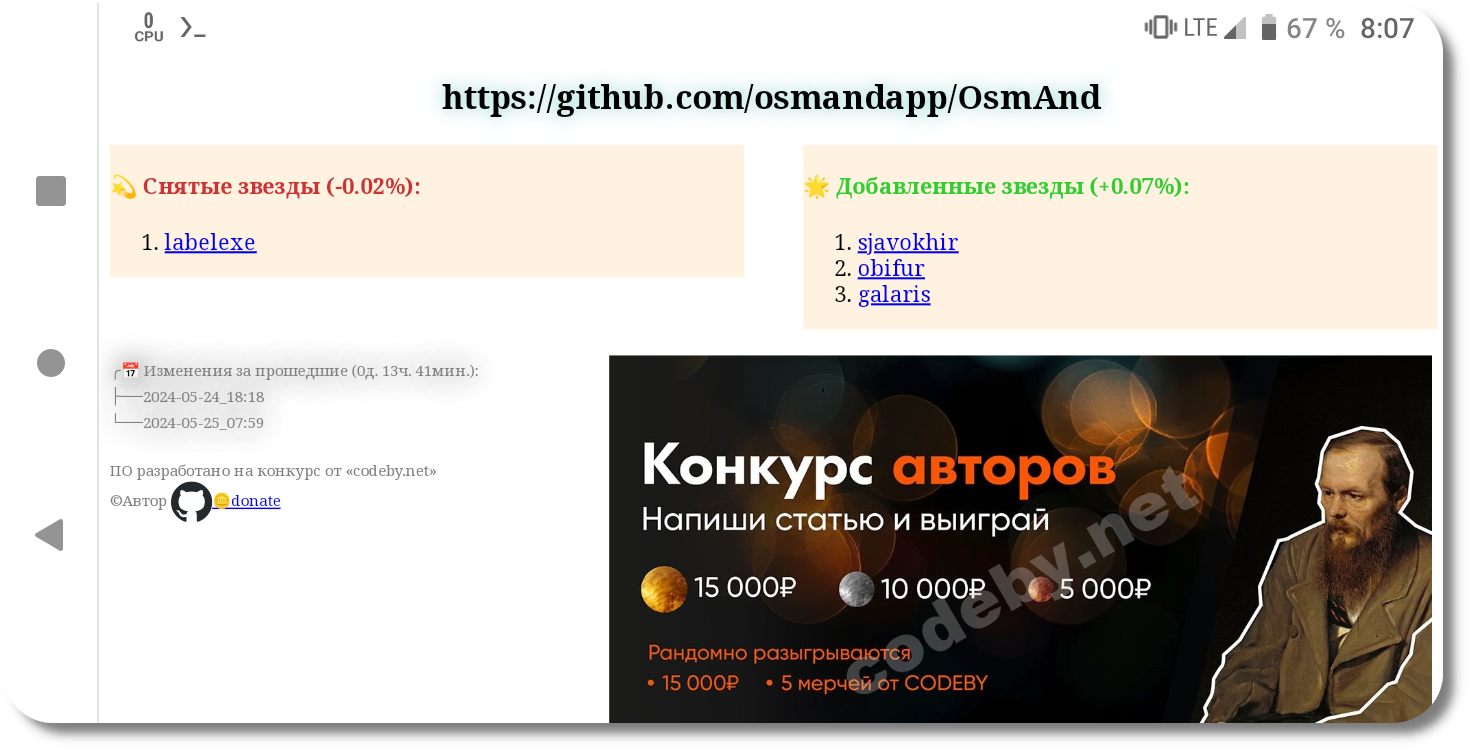
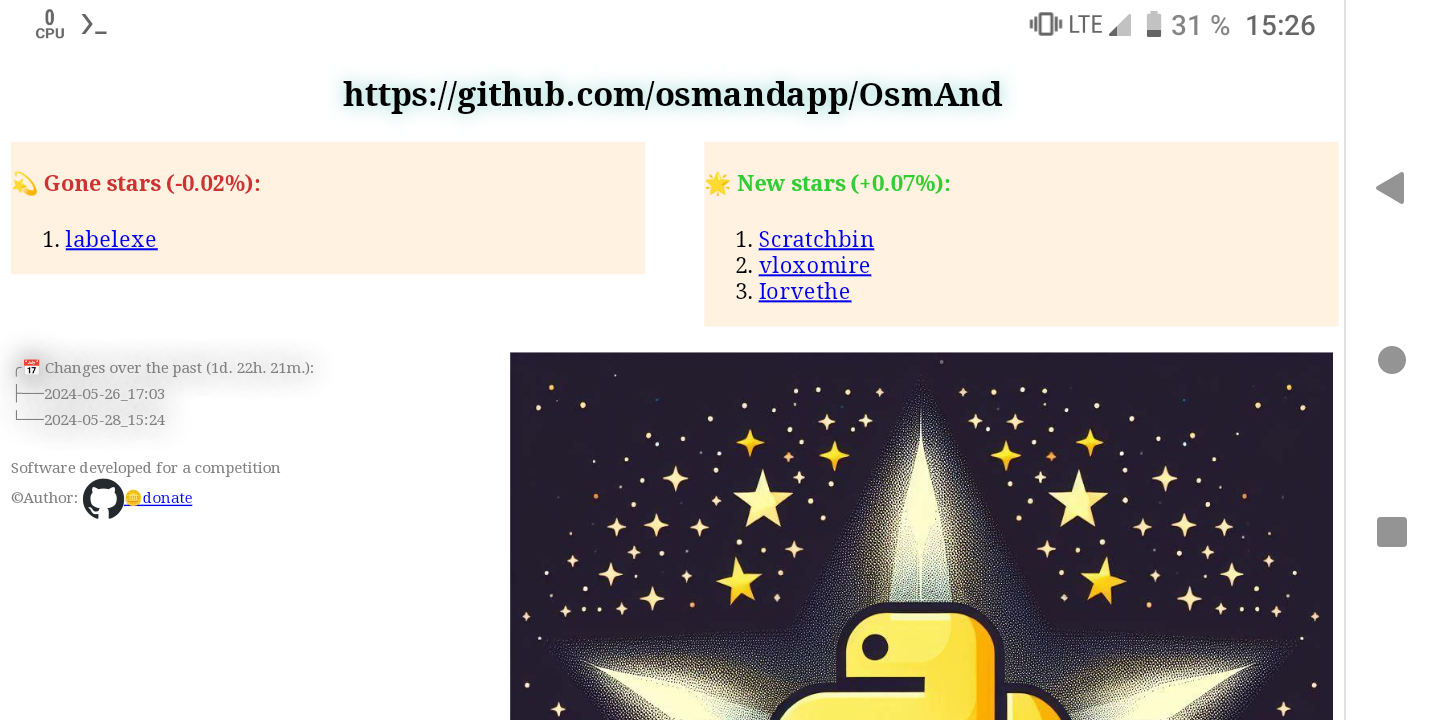
https://github.com/snooppr/shotstars/issues/1
"shotstars" translated from Russian into English

diff --git a/shot_stars.py b/shot_stars.py
@@ -25,10 +25,10 @@ console.print("""[yellow]
 / ___|| |__   ___ | |_  / ___|| |_ __ _ _ __ ___ 
 \___ \| '_ \ / _ \| __| \___ \| __/ _` | '__/ __|
  ___) | | | | (_) | |_   ___) | || (_| | |  \__ \\
-|____/|_| |_|\___/ \__| |____/ \__\__,_|_|  |___/[/yellow]  v0.1, автор: https://github.com/snooppr
+|____/|_| |_|\___/ \__| |____/ \__\__,_|_|  |___/[/yellow]  v0.1, author: https://github.com/snooppr
 """)
 
-url_repo = input("Укажите url репозитория (Github): ")
+url_repo = input("Specify the repository url (Github): ")
 repo = url_repo.rsplit(sep='/', maxsplit=1)[-1]
 repo_api = '/'.join(url_repo.rsplit(sep='/', maxsplit=2)[-2:])
 
@@ -52,7 +52,7 @@ def win_exit():
 def dif_time():
     """Диапазон прошедшего времени: от последнего сканирования к текущему сканированию."""
     delta = datetime.datetime.today() - datetime.datetime.fromtimestamp(date_file_new)
-    return f"{delta.days}д. {(datetime.datetime.utcfromtimestamp(0) + delta).strftime('%Hч. %Mмин.')}"
+    return f"{delta.days}d. {(datetime.datetime.utcfromtimestamp(0) + delta).strftime('%Hh. %Mm.')}"
 
 
 def parsing(diff=False):
@@ -71,7 +71,7 @@ def parsing(diff=False):
         req = my_session.get(f'https://api.github.com/repos/{repo_api}', headers=head, timeout=6)
         r = req.json()
     except Exception:
-        console.print('[bold red]Ошибка сети![/bold red]')
+        console.print('[bold red]Network error![/bold red]')
         win_exit()
         sys.exit()
 
@@ -81,15 +81,15 @@ def parsing(diff=False):
         stars = int(r.get("stargazers_count"))
         pages = (stars // 100) + 1
     except Exception:
-        console.print("\n[bold red]Внимание! Вероятно, превышен лимит API, блокировка будет снята предположительно:",
+        console.print("\n[bold red]Attention! The API limit has probably been exceeded, the block will presumably be lifted:",
                       time.strftime('%Y-%m-%d_%H:%M', time.localtime(int(req.headers.get('X-RateLimit-Reset')) + 60)))
-        console.print(Panel.fit("Ограничения: ~лимит 30 запросов или 6000 звезд/час", title="Github API"))
+        console.print(Panel.fit("Limitations: ~limit 30 requests or 6000 stars/hour", title="Github API"))
         win_exit()
         sys.exit()
 
 # Вывод на печать звезд и описание проекта (если присутствует).
-    title_repo = "Описание репозитория отсутствует" if r.get('description') is None else r.get('description')
-    console.print(f"[green]\n{title_repo}\n[bold green]Github-рейтинг:[/bold green] {stars} звезд\n")
+    title_repo = "No repository description available" if r.get('description') is None else r.get('description')
+    console.print(f"[green]\n{title_repo}\n[bold green]Github-rating::[/bold green] {stars} stars\n")
 
 # Настройка визуализации прогресса.
     progress = Progress(TimeElapsedColumn(), SpinnerColumn(spinner_name='earth'),
@@ -111,7 +111,7 @@ def parsing(diff=False):
                 for num in r:
                     lst_new.append(num.get("login"))
             except Exception:
-                console.print('\n[bold red]Сбой!')
+                console.print('\n[bold red]Crash!!')
                 win_exit()
                 sys.exit()    
 
@@ -127,9 +127,9 @@ def parsing(diff=False):
         diff_lst_up = list(set(lst_new) - set(lst_old)) # прибавление звезд.
 
         if bool(diff_lst_dn) is False:
-            console.print("[bold black on white]убывание звезд не обнаружено")
+            console.print("[bold black on white]gone stars not detected")
         if bool(diff_lst_up) is False:
-            console.print("[bold black on white]ПРИБАВЛЕНИЕ звезд не обнаружено")
+            console.print("[bold black on white]ADDING stars not detected")
 
         if not any([bool(diff_lst_dn), bool(diff_lst_up)]):
             print('\nfinish', round(time.perf_counter() - time_start, 1), 'sec.') # печать времени исполнения скрипта.
@@ -140,13 +140,13 @@ def parsing(diff=False):
             per_stars_up = round(len(diff_lst_up) * 100 / stars, 2) # расчет % соотношения прибавления звезд к общему рейтингу. 
 
 # Настройка таблиц для вывода на печать в CLI.
-            table_dn = Table(title=f"\n[yellow]Снятые звезды (-{per_stars_dn}%)\nза последние: {dif_time()}[/yellow]",
+            table_dn = Table(title=f"\n[yellow]Gone stars (-{per_stars_dn}%)\nin the last: {dif_time()}[/yellow]",
                              title_justify="center", header_style='yellow', style="yellow")
             table_dn.row_styles = ["none", "dim"]
             table_dn.add_column("N", justify="left", style="yellow", no_wrap=True)
             table_dn.add_column("gone stars", justify="left", style="yellow", no_wrap=True)
 
-            table_up = Table(title=f"\n[cyan]Добавленные звезды (+{per_stars_up}%)\nза последние: {dif_time()}[/cyan]",
+            table_up = Table(title=f"\n[cyan]New stars (+{per_stars_up}%)\nin the last: {dif_time()}[/cyan]",
                              title_justify="center", header_style='cyan', style="cyan")
             table_up.row_styles = ["none", "dim"]
             table_up.add_column("N", justify="left", style="cyan", no_wrap=True)
@@ -154,7 +154,7 @@ def parsing(diff=False):
 
 # Сохранение/открытие HTML-отчета/печать CLI-таблиц с результатами, если такие имеются.
             with open(f"{path}/report.html", "w", encoding="utf-8") as file_html:
-                file_html.write(f"<!DOCTYPE html>\n<html lang='ru'>\n\n<head>\n<title>💫({repo}) HTML-отчет</title>\n" + \
+                file_html.write(f"<!DOCTYPE html>\n<html lang='en'>\n\n<head>\n<title>💫({repo}) HTML-reeport</title>\n" + \
                                 "<meta charset='utf-8'>\n<style>\n.textcols {white-space: nowrap}\n" + \
                                 ".textcols-item {white-space: normal; display: inline-block; width: 48%; " + \
                                 "vertical-align: top; background: #fff2e1}\n" + \
@@ -164,7 +164,7 @@ def parsing(diff=False):
                                 "transition: transform 0.15s}\n</style>\n</head>\n\n<body>\n" + \
                                 f"<h2 align='center' style='text-shadow: 0px 0px 13px #84d2ca' >{url_repo}</h2>\n" + \
                                 "<div class='textcols'>\n<div class='textcols-item'>\n" + \
-                                f"<h4 style='color:#CC3333'>💫 Снятые звезды (-{per_stars_dn}%):</h4>\n")
+                                f"<h4 style='color:#CC3333'>💫 Gone stars (-{per_stars_dn}%):</h4>\n")
 
                 if bool(diff_lst_dn):
                     file_html.write("<ol>")
@@ -175,7 +175,7 @@ def parsing(diff=False):
                     file_html.write("\n</ol>\n")
 
                 file_html.write(f"</div>\n\n<div class='textcols-item'>\n<h4 style='color:#32CD32'>" + \
-                                f"🌟 Добавленные звезды (+{per_stars_up}%):</h4>\n")
+                                f"🌟 New stars (+{per_stars_up}%):</h4>\n")
 
                 if bool(diff_lst_up):
                     file_html.write("<ol>")
@@ -185,18 +185,18 @@ def parsing(diff=False):
                                         f"href='https://github.com/{username}'>{username}</a></span></li>")
                     file_html.write("\n</ol>\n")
 
-                file_html.write("</div>\n</div>\n\n<br>\n<a " + \
-                                "href='https://codeby.net/threads/konkurs-avtorskix-statej-2024.83387/' target='blank'><img src=" + \
-                                "https://codeby.net/attachments/1200x675_konkurs_avtorov_montazhnaja_oblast_1_kopija_5-jpg.74724/ " + \
-                                "alt='Программа написана специально для конкурса Codeby (май 2024)' width='600' class='pic'></a>\n\n")
+                file_html.write("</div>\n</div>\n\n<br>\n<a href='" + \
+                                "https://github.com/snooppr/shotstars/tree/main' target='blank'><img src=" + \
+                                "https://raw.githubusercontent.com/snooppr/shotstars/main/images/stars.jpg " + \
+                                "alt='The program was written for an article competition' width='600' class='pic'></a>\n\n")
                 file_html.write("<span style='color:gray; text-shadow: 0px 0px 20px #333333'>" + \
-                                "<small><small>╭📅 Изменения за прошедшие " + \
+                                "<small><small>╭📅 Changes over the past " + \
                                 f"({dif_time()}): <br>├──{date}<br>└──{time.strftime('%Y-%m-%d_%H:%M', time.localtime())}" + \
                                 "</small></small></span>\n\n<p style='color: gray'><small><small>" + \
-                                "ПО разработано на конкурс от «codeby.net»<br>©Автор <a href='https://github.com/snooppr' " + \
+                                "Software developed for a competition<br>©Author: <a href='https://github.com/snooppr' " + \
                                 "target='blank'><img align='center' src='https://github.githubassets.com/favicons/favicon.svg' " + \
                                 "alt='' height='30' width='30'/>🪙</a><a href='https://yoomoney.ru/to/4100111364257544' " + \
-                                "target='blank' title='Прога оказалась полезной? Поддержи финансово разработчика.'>donate" + \
+                                "target='blank' title='Was the program useful? Support the developer financially.'>donate" + \
                                 "</a></small></small></p>\n\n</body>\n</html>")
 
             if bool(diff_lst_dn):
@@ -216,23 +216,23 @@ def parsing(diff=False):
 if __name__ == '__main__':
     try:
         if len(url_repo) == 0:
-            console.print("[bold red]'enter' -> выход")
+            console.print("[bold red]'enter' -> exit")
         elif len(url_repo) < 18 or 'github.com' not in url_repo:
-            console.print("[bold red]Предоставлена некорректная ссылка на репозиторий")
+            console.print("[bold red]Incorrect repository link provided")
             shutil.rmtree(path, ignore_errors=True)
             win_exit()
         elif os.path.exists(f"{path}/new.txt"):
             date_file_new = os.path.getmtime(f"{path}/new.txt")
             date = time.strftime('%Y-%m-%d_%H:%M', time.localtime(date_file_new))
-            console.print(f"\nПоследняя проверка репозитория '{repo}' выполнялась ->  {date}")
+            console.print(f"\nRepository '{repo}' was last checked ->  {date}")
             a = shutil.copy(f"{path}/new.txt", f"{path}/old.txt")
             parsing(diff=True)
         else:
-            console.print(f"\n[bold green]В БД для отслеживания добавлен новый репозиторий: '{repo}'.\n" + \
-                          "При последующем/повторном сканировании репозитория 'ShotStars' будет пытаться вычислять звезды.")
+            console.print(f"\n[bold green]A new repository has been added to the tracking database: '{repo}'.\n" + \
+                          "On subsequent/re-scanning of the repository, 'ShotStars' will attempt to calculate stars.")
             parsing()
     except KeyboardInterrupt:
-        console.print(f"\n[bold red]Прерывание [italic][/bold red]")
+        console.print(f"\n[bold red]Interrupt [italic][/bold red]")
         if Windows:
             os.kill(os.getpid(), signal.SIGBREAK)
         if Linux:
